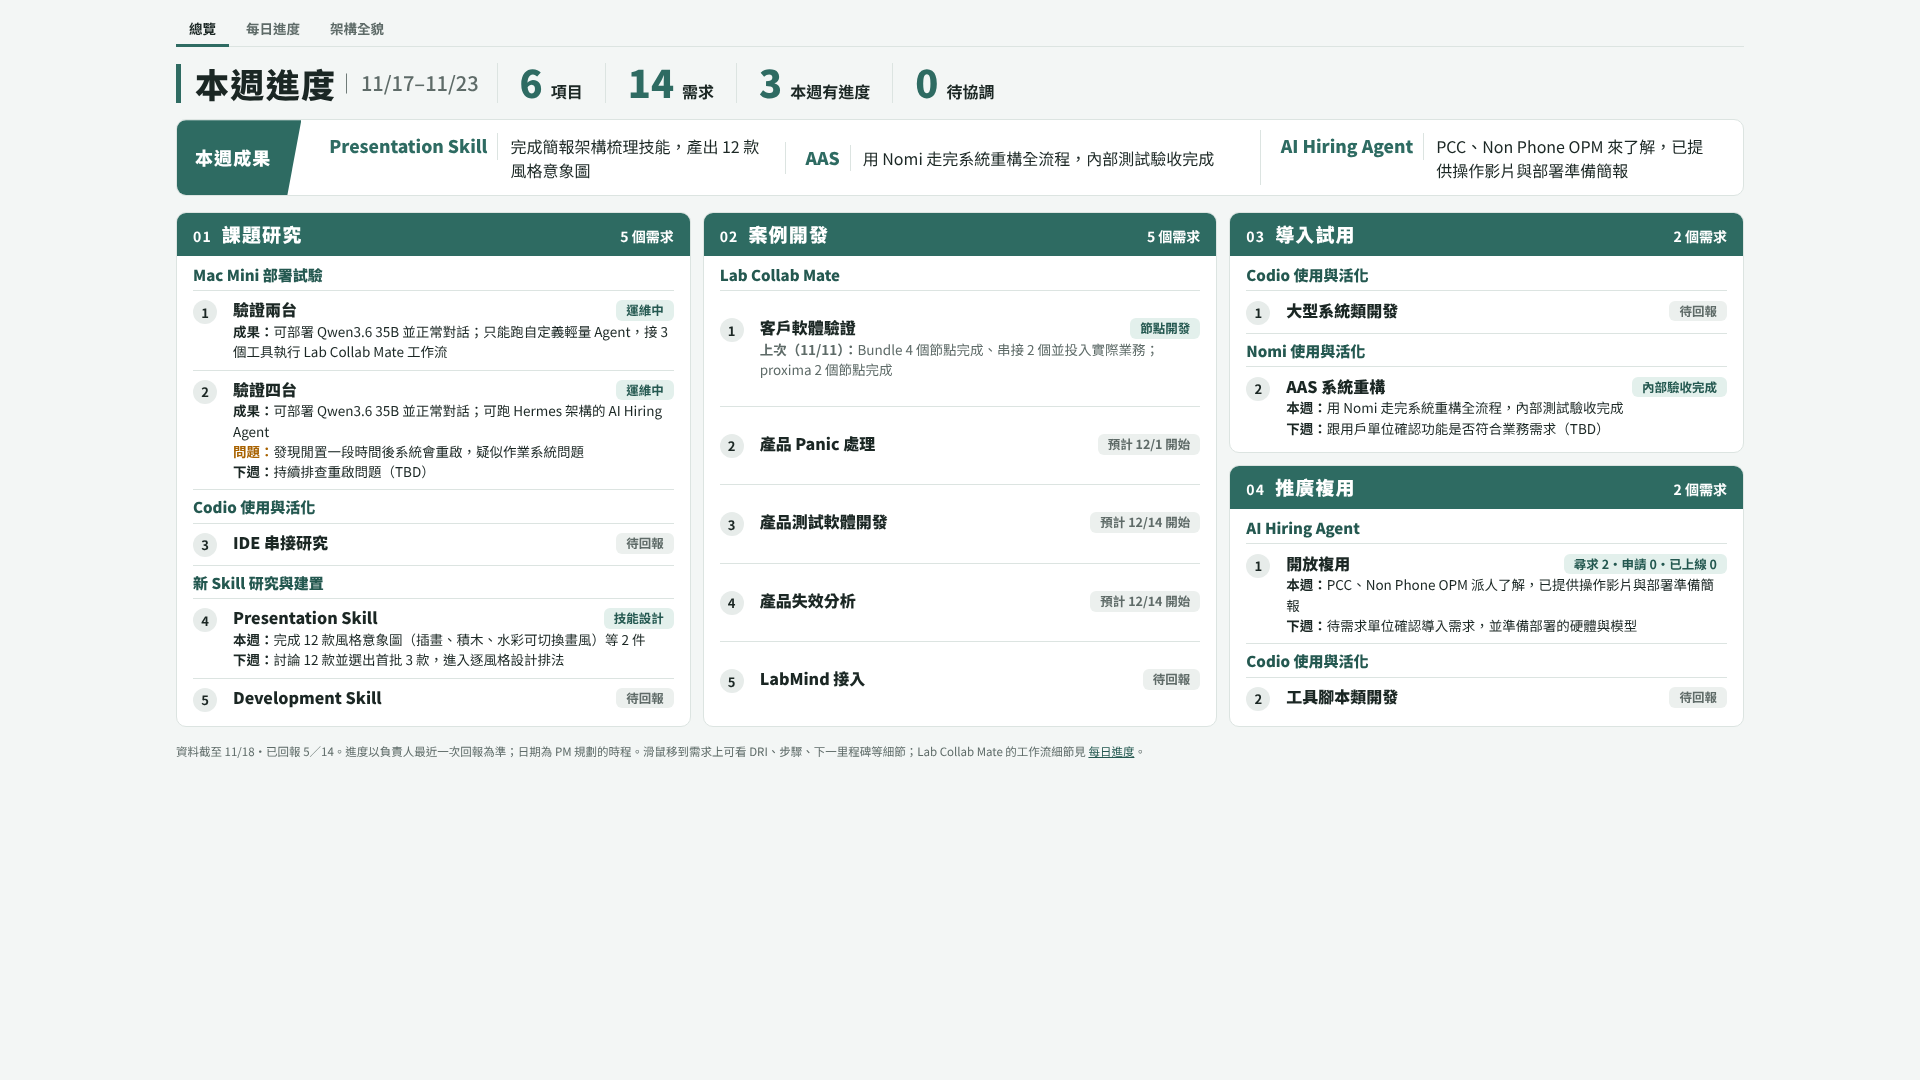
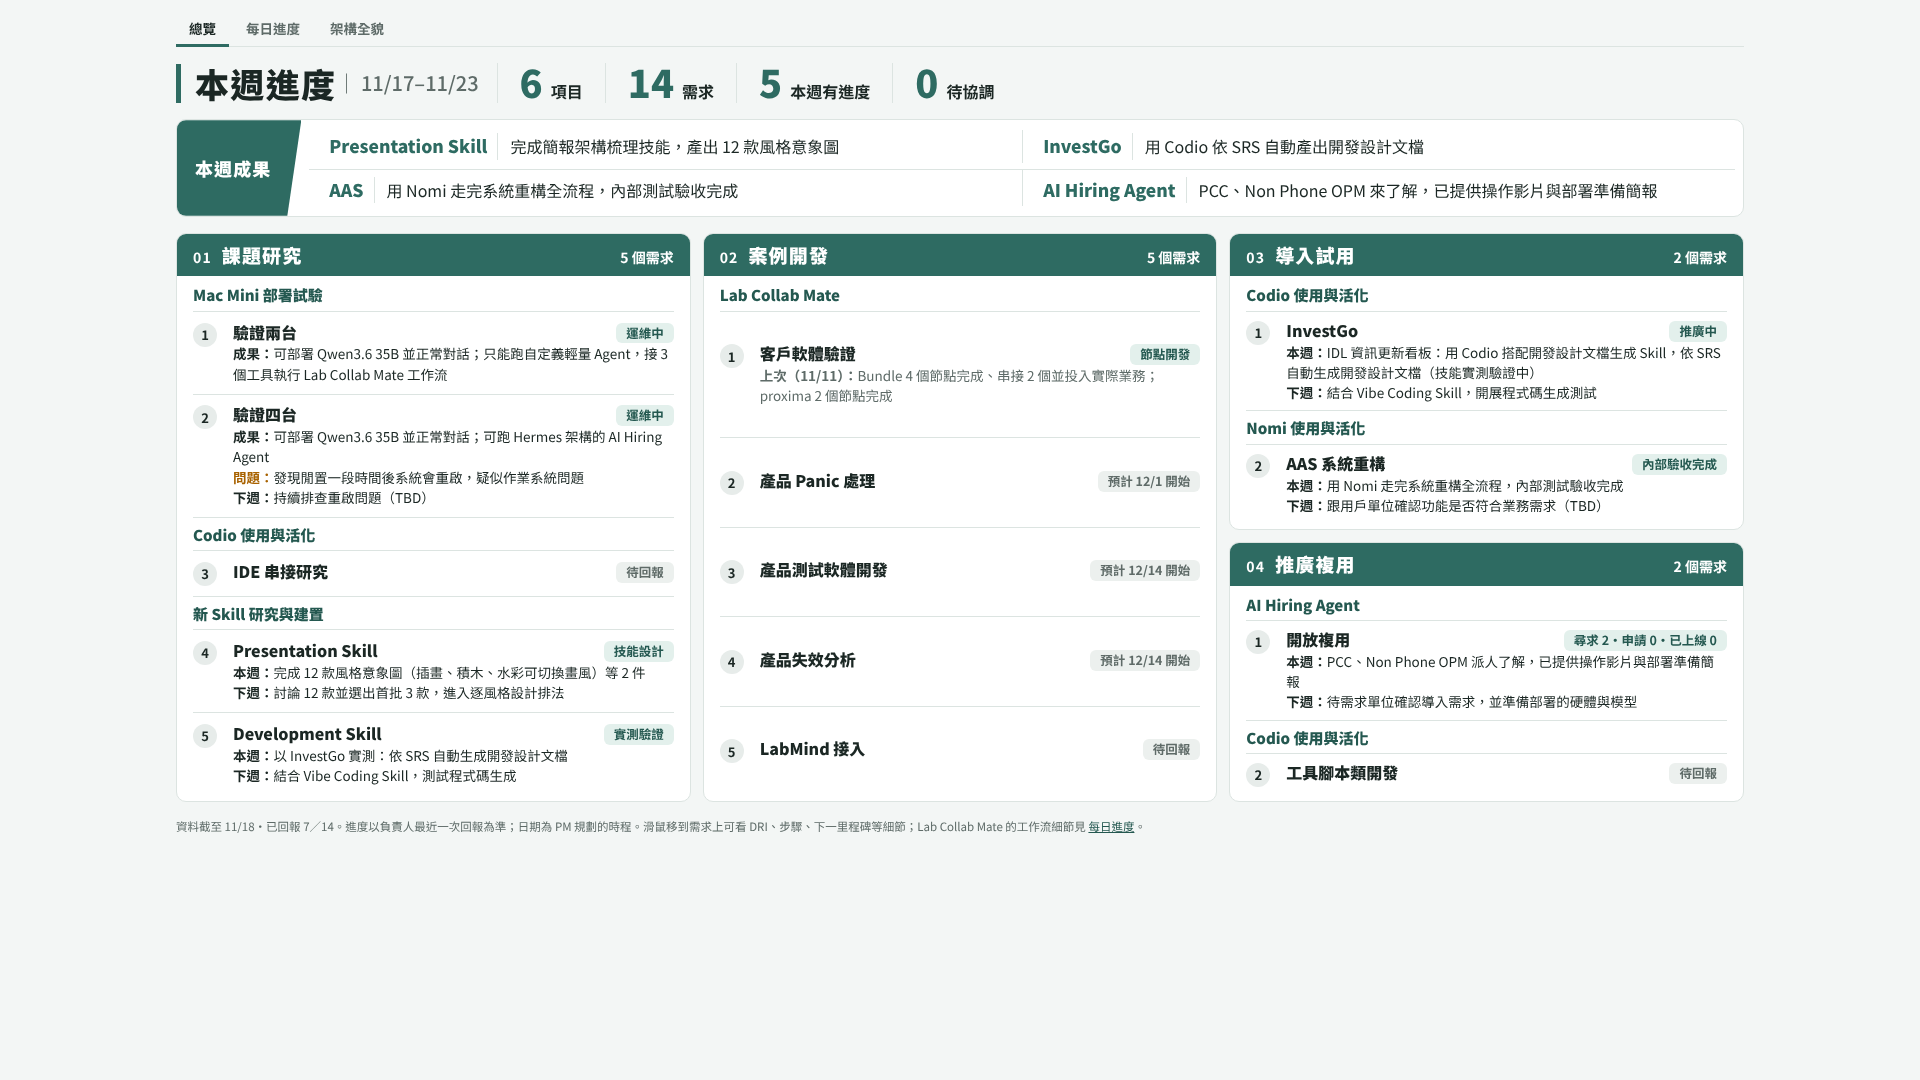
[2026-11-17_overview-redesign] 更新 Development Skill 與 InvestGo 本週進度；本週成果 4 則改兩欄兩列
Claude-Session: https://claude.ai/code/session_01Cd6Gft6mTX8zcMZinAmXya

diff --git a/public/index.html b/public/index.html
@@ -60,6 +60,10 @@ h1,h2,h3,h4{margin:0;text-wrap:balance}
 .wins ul{list-style:none;margin:0;padding:10px 8px;display:grid;grid-template-columns:repeat(var(--n,3),minmax(0,1fr));align-items:center}
 .wins li{display:flex;align-items:baseline;gap:12px;padding:3px 20px;min-width:0;font-size:16px}
 .wins li + li{border-left:1px solid var(--line)}
+/* 4 則時排成兩欄兩列 */
+.wins ul.g2{row-gap:6px}
+.wins ul.g2 li:nth-child(odd){border-left:0}
+.wins ul.g2 li:nth-child(n+3){border-top:1px solid var(--line);padding-top:7px}
 .wins li b{color:var(--brand);font-size:17.5px;font-weight:900;white-space:nowrap;padding-right:10px;border-right:1px solid var(--line)}
 .wins li span{min-width:0}
 .wins .empty{padding:0 18px;color:var(--muted);align-self:center}
@@ -117,6 +121,9 @@ html.fit2 .proj{font-size:14px;padding:4px 0 3px}
 html.fit2 .req{padding:4px 0 5px}
 html.fit2 .req h4{font-size:15px}
 html.fit2 .ln{font-size:13px;line-height:1.42}
+html.fit2 .wins ul{padding:4px 8px}
+html.fit2 .wins ul.g2{row-gap:2px}
+html.fit2 .wins ul.g2 li:nth-child(n+3){padding-top:3px}
 html.fit2 .page{gap:9px;padding-block:6px 8px}
 html.fit2 .head h1{font-size:27px}
 html.fit2 .head .seg b{font-size:28px}
@@ -194,7 +201,11 @@ const MODULES = [
           next:["討論 12 款並選出首批 3 款，進入逐風格設計排法"],
           hl:[{i:0, s:"Presentation Skill", t:"完成簡報架構梳理技能，產出 12 款風格意象圖"}]}},
     {proj:"新 Skill 研究與建置", name:"Development Skill", type:"deliver", dri:null, steps:SKILL, rel:"由 Codio 執行，InvestGo 驗證",
-     sub:{at:2, items:["需求梳理","SRS","原型設計","開發設計文檔","程式碼生成校正","上線運維","測試用例生成"]}, rep:null}
+     sub:{at:2, items:["需求梳理","SRS","原型設計","開發設計文檔","程式碼生成校正","上線運維","測試用例生成"]},
+     desc:"以 InvestGo 部門 IDL 資訊更新看板需求實測，與 Codio（InvestGo）共用同一個驗證案例。",
+     rep:{now:3,
+          done:["以 InvestGo 實測：依 SRS 自動生成開發設計文檔"],
+          next:["結合 Vibe Coding Skill，測試程式碼生成"]}}
   ]},
   {no:"②", name:"案例開發", col:1, reqs:[
     {proj:"Lab Collab Mate", name:"客戶軟體驗證", type:"deliver", dri:"Simon、Gary、景棠、熙宁", steps:WF,
@@ -214,7 +225,11 @@ const MODULES = [
      rep:null}
   ]},
   {no:"③", name:"導入試用", col:2, reqs:[
-    {proj:"Codio 使用與活化", name:"大型系統類開發", type:"promo", dri:null, rel:"與 Development Skill 共用 InvestGo 驗證", rep:null},
+    {proj:"Codio 使用與活化", name:"InvestGo", type:"promo", dri:null, rel:"與 Development Skill 共用 InvestGo 驗證",
+     desc:"大型系統類開發：以 InvestGo 部門 IDL 資訊更新看板需求為試點，用 Codio 搭配開發 Skill 走開發流程。",
+     rep:{done:["IDL 資訊更新看板：用 Codio 搭配開發設計文檔生成 Skill，依 SRS 自動生成開發設計文檔（技能實測驗證中）"],
+          next:["結合 Vibe Coding Skill，開展程式碼生成測試"],
+          hl:[{i:0, s:"InvestGo", t:"用 Codio 依 SRS 自動產出開發設計文檔"}]}},
     {proj:"Nomi 使用與活化", name:"AAS 系統重構", type:"deliver", dri:"Tylee",
      steps:["系統分析","需求梳理","原型確認","技術規劃","AI 開發測試","內部試用驗收","用戶單位確認","Xylon 架構重構"],
      desc:"架構演進：原本建在 xTrack 系統管理架構 → Nomi 重構後為純 JSP（無系統管理架構）→ 下一階段改為 Xylon 系統管理架構。重構範圍止於驗收，不含正式部署與切換。用 Nomi 經 6 輪迭代（10/21–11/13），驗收 4 次退回後通過。",
@@ -251,13 +266,13 @@ const seg = (n, t) => `<div class="seg"><b class="num">${n}</b><span>${t}</span>
 $("head").innerHTML = `<h1>本週進度</h1><span class="wk num">｜ ${md(WEEK.from)}–${md(WEEK.to)}</span>` +
   seg(projCount, "項目") + seg(REQS.length, "需求") + seg(progressed, "本週有進度") + seg(helps.length, "待協調");
 
-/* 第二行：本週成果「主題｜成果」。回報的 hl 可寫 {i:完成事項索引, s:主題, t:短句}；只寫索引時，主題用需求名、內容用完成事項原文。最多 3 則 */
+/* 第二行：本週成果「主題｜成果」。回報的 hl 可寫 {i:完成事項索引, s:主題, t:短句}；只寫索引時，主題用需求名、內容用完成事項原文。最多 4 則 */
 let wins = reported.flatMap(r => (r.rep.hl || []).map(h => typeof h === "number"
   ? {s:r.name, t:r.rep.done[h]} : {s:h.s || r.name, t:h.t || r.rep.done[h.i]}));
 if (!wins.length) wins = reported.filter(hasDone).map(r => ({s:r.name, t:r.rep.done[0]}));
-wins = wins.slice(0, 3);
+wins = wins.slice(0, 4);
 $("wins").innerHTML = wins.length
-  ? `<ul style="--n:${wins.length}">${wins.map(w => `<li><b>${esc(w.s)}</b><span>${esc(w.t)}</span></li>`).join("")}</ul>`
+  ? `<ul class="${wins.length === 4 ? "g2" : ""}" style="--n:${wins.length === 4 ? 2 : wins.length}">${wins.map(w => `<li><b>${esc(w.s)}</b><span>${esc(w.t)}</span></li>`).join("")}</ul>`
   : `<div class="empty">本週回報彙整中；負責人回覆後，這裡會列出本週最重要的成果。</div>`;
 
 /* 第三行：請副總協助（有事項才出現） */
